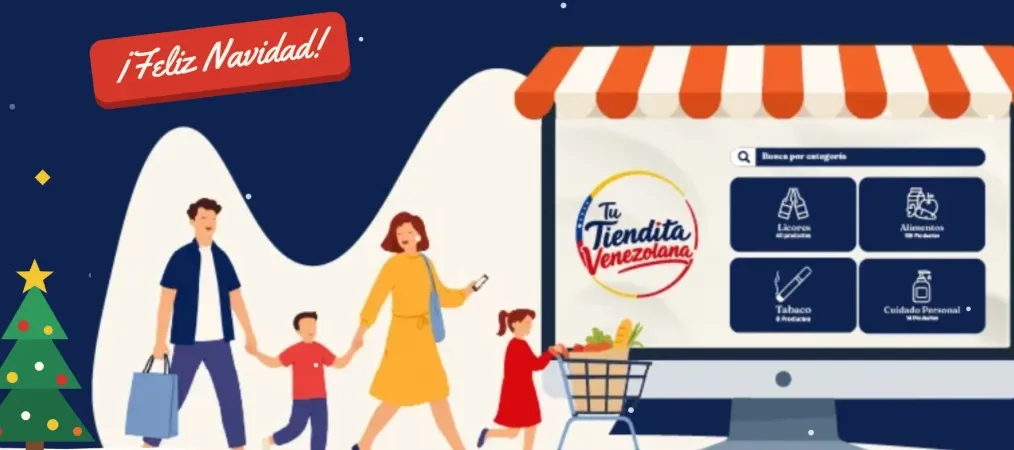
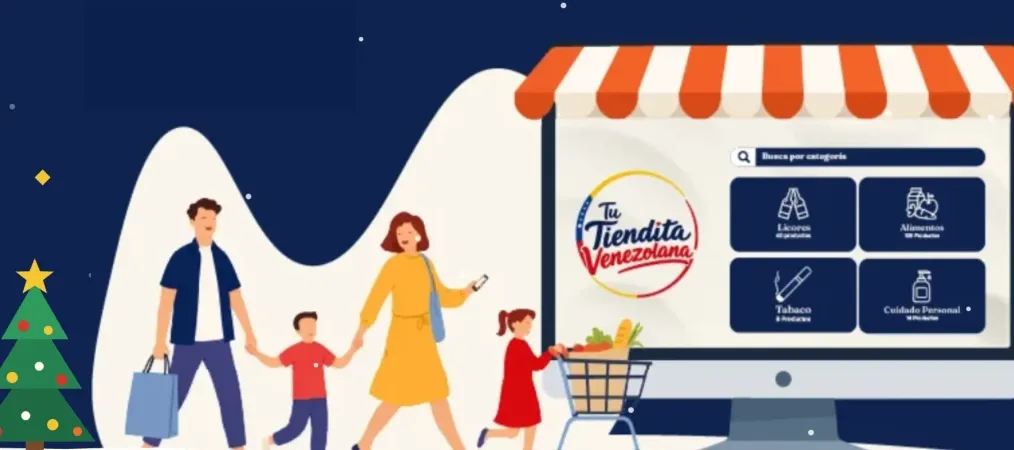
Blog sin letrero Feliz Navidad, ilustración integrada al fondo y toldo con puntas redondeadas

Changed region(s): [[0.0611, 0.0, 0.3669, 0.2489]]

diff --git a/src/styles/blog.css b/src/styles/blog.css
@@ -67,7 +67,7 @@
 .blog-hero-v2 h1 span{color:#f7d765}
 .blog-hero-v2-text{position:relative;z-index:1;max-width:min(560px,44%)}
 .blog-hero-v2-text > p:last-of-type{color:rgba(255,255,255,.84);max-width:560px}
-.blog-hero-v2-art{position:absolute;right:0;bottom:6px;width:55%;height:auto;max-height:calc(100% - 6px);object-fit:contain;object-position:right bottom;-webkit-mask-image:linear-gradient(90deg,transparent 0,#000 9%);mask-image:linear-gradient(90deg,transparent 0,#000 9%);pointer-events:none}
+.blog-hero-v2-art{position:absolute;right:0;bottom:6px;width:55%;height:auto;max-height:calc(100% - 6px);object-fit:contain;object-position:right bottom;-webkit-mask-image:linear-gradient(90deg,transparent 0,#000 12%),linear-gradient(180deg,transparent 0,#000 14%);-webkit-mask-composite:source-in;mask-image:linear-gradient(90deg,transparent 0,#000 12%),linear-gradient(180deg,transparent 0,#000 14%);mask-composite:intersect;pointer-events:none}
 .blog-demo{background:#fff8e1;border:1px solid rgba(244,180,0,.45);color:#6b5200;border-radius:10px;padding:10px 14px;font-size:13.5px;margin:0 0 22px}
 .blog-btn{display:inline-flex;align-items:center;gap:8px;min-height:44px;padding:0 18px;border-radius:999px;background:var(--red);color:#fff;font-weight:700;font-size:14px;text-decoration:none;border:0;transition:transform .15s,background .15s}
 .blog-btn:hover{background:var(--red-deep);transform:translateY(-1px)}

diff --git a/src/styles/react.css b/src/styles/react.css
@@ -1,5 +1,5 @@
 .awning { height: 58px; background: #0f2350; overflow: hidden; }
-.awning-stripes { height: 51px; background: repeating-linear-gradient(90deg, #d32031 0 48px, #fff 48px 96px); clip-path: polygon(0 0,100% 0,100% 58%,98% 100%,96% 58%,94% 100%,92% 58%,90% 100%,88% 58%,86% 100%,84% 58%,82% 100%,80% 58%,78% 100%,76% 58%,74% 100%,72% 58%,70% 100%,68% 58%,66% 100%,64% 58%,62% 100%,60% 58%,58% 100%,56% 58%,54% 100%,52% 58%,50% 100%,48% 58%,46% 100%,44% 58%,42% 100%,40% 58%,38% 100%,36% 58%,34% 100%,32% 58%,30% 100%,28% 58%,26% 100%,24% 58%,22% 100%,20% 58%,18% 100%,16% 58%,14% 100%,12% 58%,10% 100%,8% 58%,6% 100%,4% 58%,2% 100%,0 58%); }
+.awning-stripes { height: 54px; background: linear-gradient(180deg, rgba(9,21,51,.18) 0 5px, transparent 5px 62%, rgba(9,21,51,.14) 100%), repeating-linear-gradient(90deg, #d32031 0 48px, #fff 48px 96px); -webkit-mask: linear-gradient(#000,#000) 0 0/100% 30px no-repeat, radial-gradient(circle at 24px 0, #000 23.5px, transparent 24px) 0 30px/48px 24px repeat-x; mask: linear-gradient(#000,#000) 0 0/100% 30px no-repeat, radial-gradient(circle at 24px 0, #000 23.5px, transparent 24px) 0 30px/48px 24px repeat-x; filter: drop-shadow(0 3px 2px rgba(0,0,0,.25)); }
 .overlay { border: 0; padding: 0; }
 .product-placeholder { font-size: 40px; }
 .footer-link { color: rgba(255,255,255,.7); border: 0; background: none; padding: 0; font-size: 12.5px; }
